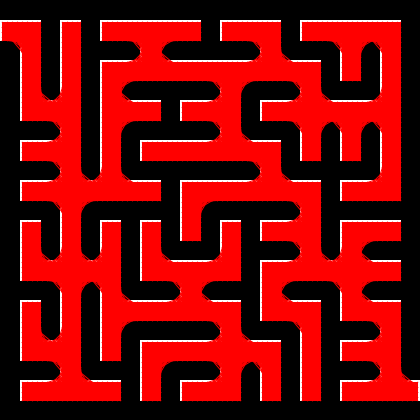
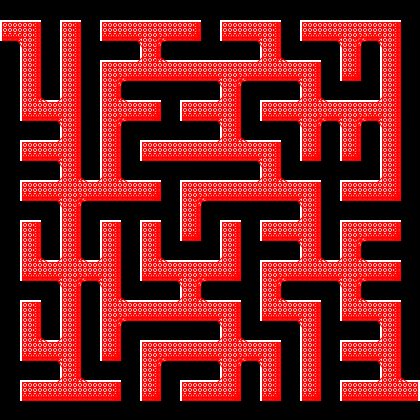
tried to fix traversal

Changed region(s): [[0.0, 0.031, 1.0, 0.9595]]

diff --git a/maze_gui/src/gamestuff/Game.java b/maze_gui/src/gamestuff/Game.java
@@ -24,13 +24,21 @@ public class Game {
 	
 	//graph stuff
 	private Image currentImage;
-
+	private int anchorX = 0;
+	private int anchorY=0;
 	private Image characterImage = new Image("/utilityImg/ujLogo.png");
 	private boolean inRound = false;
-	private GraphADT.Graph<SuperPixel> currentGraph;
+	private boolean differenceX = false;
+	private boolean differneceY = false;
+	private GraphADT.Graph<Vertex<SuperPixel>> currentGraph;
 	private GraphicsContext gc;
 	private Vertex<SuperPixel> currentVertex;
 	
+	
+	private void changeDiffernceByX(boolean val) {
+		differenceX = val;
+		differneceY = !differenceX;
+	}
 	
 	public static String menu = 
 		    "Press 'Select Maze' to choose a maze.\n" +
@@ -101,7 +109,7 @@ public class Game {
 	
 				this.gc = gc;
 				this.currentImage = image;
-				this.currentGraph = new GraphADT.Graph<SuperPixel>(i.getPath());
+				this.currentGraph = new GraphADT.Graph<Vertex<SuperPixel>>(i.getPath());
 				System.out.println("graph made");
 				player.resetAttempts();
 				gc.drawImage(image, 0,0,gc.getCanvas().getWidth(),gc.getCanvas().getHeight());
@@ -114,7 +122,7 @@ public class Game {
 				gc.drawImage(new Image("/utilityImg/location.png"),startx,starty,10,10);	
 	}
 	
-	public GraphADT.Graph<SuperPixel> getgraph(){
+	public GraphADT.Graph<Vertex<SuperPixel>> getgraph(){
 		return this.currentGraph;
 	}
 	
@@ -141,7 +149,7 @@ public class Game {
 	}
 	
 	
-	public void moveToVertex(String move) {
+	public void moveToVertex(String move, TextArea t) {
 		boolean moved = false;
 		
 		System.out.println(String.format(" the current x : %d \n the current y : %d",player.getCurrentx(), player.getCurrenty()));
@@ -167,6 +175,9 @@ public class Game {
 					if(nextVert.GetElement().getAvgPixelXPos() < player.getCurrentx()) {
 						foundNextVertex = true;
 						System.out.println("to left");
+						changeDiffernceByX(true);
+						anchorY = player.getCurrenty();
+						anchorX =0;
 					}
 					break;
 				}
@@ -174,6 +185,9 @@ public class Game {
 					if(nextVert.GetElement().getAvgPixelXPos() > player.getCurrentx()) {
 						foundNextVertex = true;
 						System.out.println("to right");
+						changeDiffernceByX(true);
+						anchorY = player.getCurrenty();
+						anchorX =0;
 					}
 					break;
 				}
@@ -181,6 +195,9 @@ public class Game {
 					if(nextVert.GetElement().getyAvgPixelYPos() < player.getCurrenty()) {
 						foundNextVertex = true;
 						System.out.println("to up");
+						changeDiffernceByX(false);
+						anchorY =0;
+						anchorX =player.getCurrentx();
 					}
 					break;
 				}
@@ -188,6 +205,9 @@ public class Game {
 					if(nextVert.GetElement().getyAvgPixelYPos() > player.getCurrenty()) {
 						foundNextVertex = true;
 						System.out.println("to down");
+						changeDiffernceByX(false);
+						anchorY =0;
+						anchorX =player.getCurrentx();
 					}
 					break;
 				}
@@ -201,12 +221,16 @@ public class Game {
 					currentVertex = nextVert;
 					System.out.println("found nextvert");
 							moved= true;
-							player.setCurrentx(nextVert.GetElement().getAvgPixelXPos() );
+							player.setCurrentx(nextVert.GetElement().getAvgPixelXPos());
 							player.setCurrenty(nextVert.GetElement().getyAvgPixelYPos());
 							//draw movement will be done like this
 							//gc.fillRect(player.getCurrentx(), player.getCurrenty(), 10, 10);
 							
-							drawMovement(player.getCurrentx(), player.getCurrenty());
+							if(anchorX ==0) {
+								drawMovement(player.getCurrentx(), anchorY);
+							}else if(anchorY==0) {
+								drawMovement(anchorX, player.getCurrenty());
+							}
 							player.getCurrentAttempt().addToPath(nextVert);
 							
 							
@@ -216,12 +240,7 @@ public class Game {
 						if(playerPath.get(playerPath.size()-1).GetElement().compare(currentGraph.getEndVertex().GetElement()) == 0) {
 							player.getCurrentAttempt().CompleteAttempt();
 							inRound = false;
-							gc.clearRect(0, 0, gc.getCanvas().getWidth(), gc.getCanvas().getHeight());
-							gc.drawImage(currentImage, 0,0,gc.getCanvas().getWidth(),gc.getCanvas().getHeight());
-							currentVertex = currentGraph.getStartVertex();
-							player.setCurrentx(currentVertex.GetElement().getAvgPixelXPos());
-							player.setCurrenty(currentVertex.GetElement().getyAvgPixelYPos());
-							gc.drawImage(new Image("/utilityImg/location.png"),player.getCurrentx(),player.getCurrenty(),10,10);
+							endgame(t);
 						}
 						
 						
@@ -265,6 +284,20 @@ public class Game {
 		
 	}
 	
+	public void endgame(TextArea t) {
+		t.clear();
+		player.getCurrentAttempt().endAttempt();
+		player.insertAttempt(player.getCurrentAttempt());
+		t.appendText(DisplayAttempts(0));
+		System.out.println(DisplayAttempts(0));
+		currentVertex = currentGraph.getStartVertex();
+		player.setCurrentx(currentVertex.GetElement().getAvgPixelXPos());
+		player.setCurrenty(currentVertex.GetElement().getyAvgPixelYPos());
+		gc.clearRect(0, 0, gc.getCanvas().getWidth(), gc.getCanvas().getHeight());
+		gc.drawImage(currentImage, 0,0,gc.getCanvas().getWidth(),gc.getCanvas().getHeight());
+		gc.drawImage(new Image("/utilityImg/location.png"),player.getCurrentx(),player.getCurrenty(),10,10);
+	}
+	
 	public void moveInGame(String move, TextArea t,javafx.scene.input.KeyEvent event) {
 		
 		
@@ -275,23 +308,14 @@ public class Game {
 			player.getCurrentAttempt().addMove(move);
 		//	t.appendText("\nkey pressed :  " + event.getCode());
 			gc.setFill(Color.RED);
-			moveToVertex(move);
+			moveToVertex(move,t);
 			
 			
 			
 			
-		}else if(move.equals("ESCAPE") || move.equals("ENTER") || player.getCurrentAttempt().isComplete()) {
-			t.clear();
-			player.getCurrentAttempt().endAttempt();
-			player.insertAttempt(player.getCurrentAttempt());
-			t.appendText(DisplayAttempts(0));
-			System.out.println(DisplayAttempts(0));
-			currentVertex = currentGraph.getStartVertex();
-			player.setCurrentx(currentVertex.GetElement().getAvgPixelXPos());
-			player.setCurrenty(currentVertex.GetElement().getyAvgPixelYPos());
-			gc.clearRect(0, 0, gc.getCanvas().getWidth(), gc.getCanvas().getHeight());
-			gc.drawImage(currentImage, 0,0,gc.getCanvas().getWidth(),gc.getCanvas().getHeight());
-			gc.drawImage(new Image("/utilityImg/location.png"),player.getCurrentx(),player.getCurrenty(),10,10);
+		}else if(move.equals("ESCAPE") || move.equals("ENTER")) {
+			endgame(t);
+			
 			//attempts.appendText(pRecord);
 			
 

diff --git a/maze_gui/src/maze_gui/ResultsApplication.java b/maze_gui/src/maze_gui/ResultsApplication.java
@@ -31,8 +31,6 @@ public class ResultsApplication{
 	public ResultsApplication(Image I) {
 		
 		        currentImage = new ImageView(I);
-		
-		        System.out.println("Error: Image is null!");
 		  
 
 		mazeProcessor =  new MazeProcessor(currentImage);
